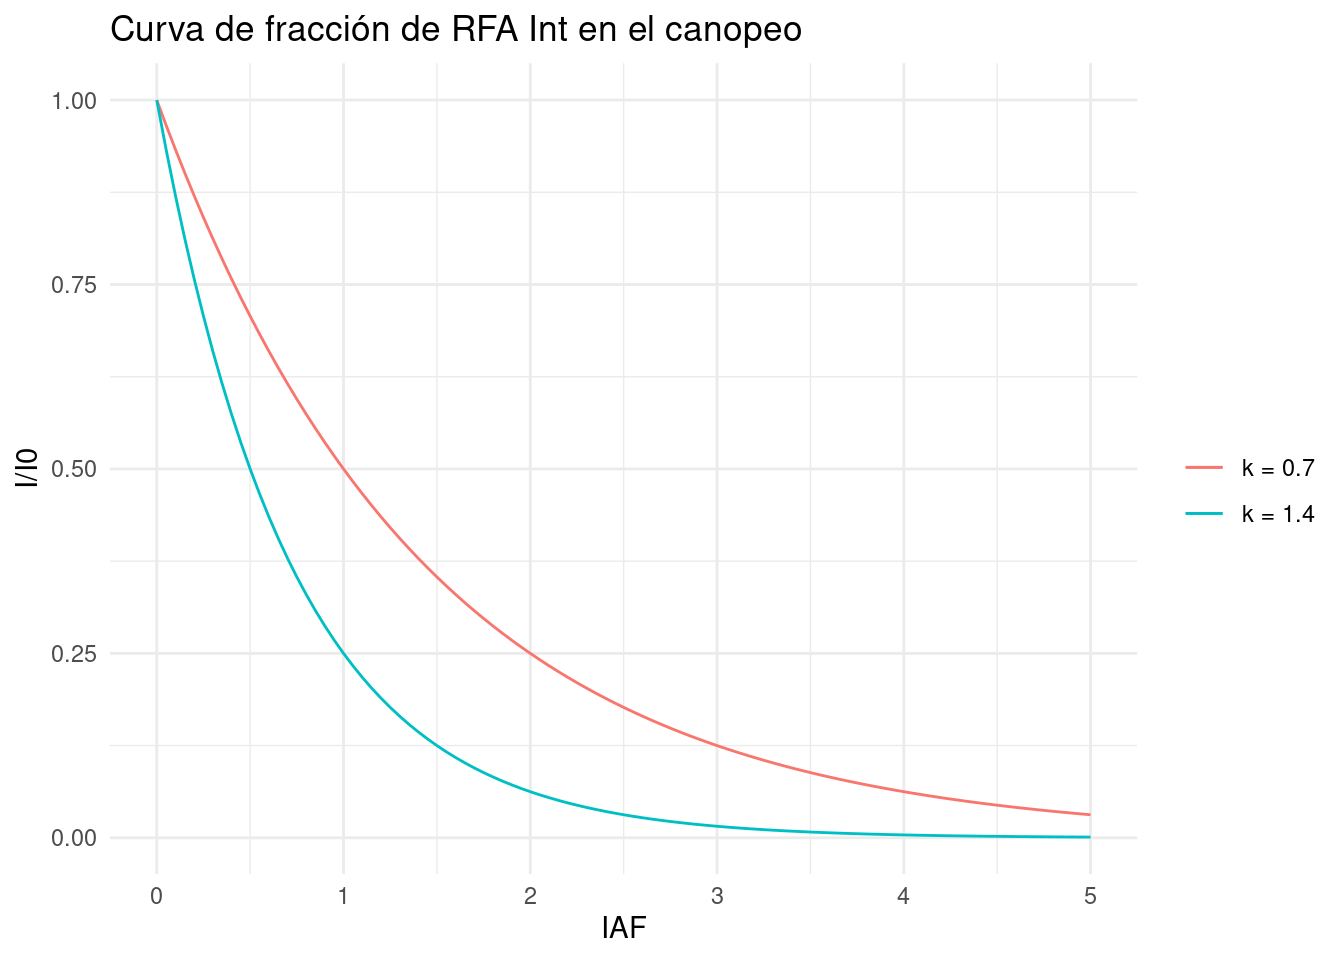
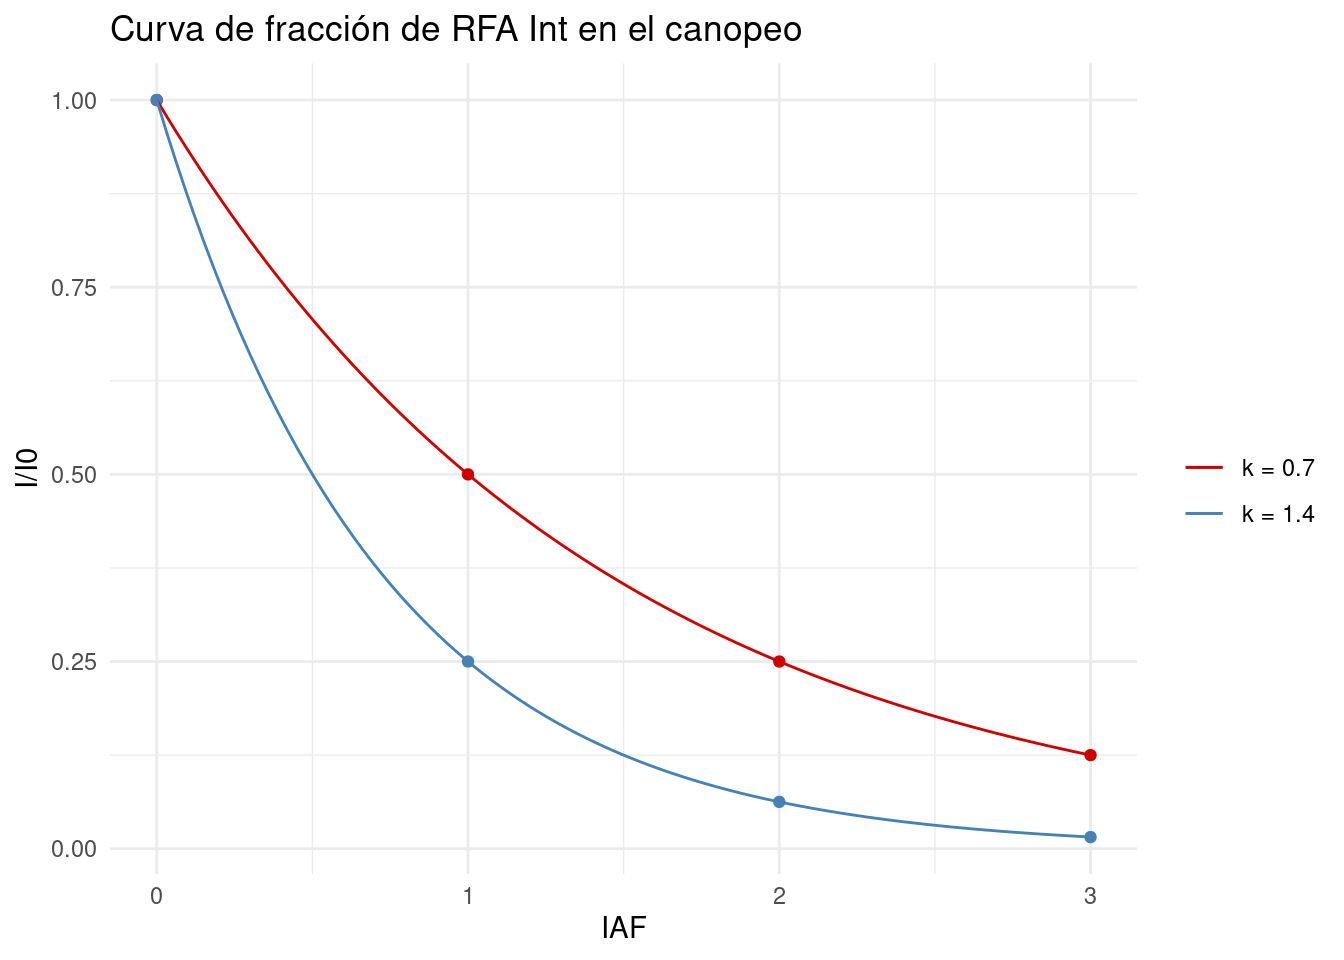
L

diff --git a/docs/02_crecimiento.html b/docs/02_crecimiento.html
@@ -289,7 +289,7 @@ $(document).ready(function () {
       <ul class="nav navbar-nav navbar-right">
         <li>
   <a href="https://juanchiem.github.io/blog/">
-    <span class="fa fa-github-square"></span>
+    <span class="fa fa-home"></span>
      
   </a>
 </li>
@@ -372,7 +372,7 @@ B
 </tbody>
 </table>
 <p>Donde:</p>
-<p>L: índice de área foliar acumulado (<span class="math inline">\(m^{2} m^{-2}\)</span>). Es decir, en L=1 la radiación atravesó 1m² de hojas/m² de suelo, y así sucesivamente. L sería un “Delta AF”, o sea si usamos la planta entera L=4, 4 m² de AF fueron atravesados (3.</p>
+<p>L: índice de área foliar acumulado (<span class="math inline">\(m^{2} m^{-2}\)</span>). Es decir, en L=2 la radiación atravesó 1m² de hojas/m² de suelo, ya que se mide al tope del estrato, entonces <span class="math inline">\(L_2 - L_1 = 1 m²\)</span>. L sería un “Delta AF”, o sea si usamos la planta entera L = 1 y 4, 3 m² de AF serían atravesados.</p>
 <p>I: radiación (μmol <span class="math inline">\(m^{-2} seg^{-1}\)</span>) incidente sobre el tope de cada estrato foliar (L)</p>
 <div class="infobox">
 <p>La fracción de RFA inerceptada (<span class="math inline">\(fRFA\)</span>) y el índice de área foliar (<span class="math inline">\(IAF\)</span>) fueron relacionados según Monsi y Saeki <span class="citation">(<a href="#ref-monsi1953light" role="doc-biblioref">1953</a>)</span> en una función no lineal dada por:</p>
@@ -404,15 +404,29 @@ k_A2</code></pre>
 k_B1</code></pre>
 <pre><code>## [1] 1.386294</code></pre>
 <p>Ahora que hemos estimado <code>k</code> podremos visualizar ambos canopeos por reemplazo de la ecuación</p>
+<ul>
+<li>Para los fines prácticos de la visualización de la fracción interceptada generaremos una nueva columna altura de medición de radiación (L0)</li>
+</ul>
 <pre class="r"><code>fraccion_interceptada_A &lt;- function(x) exp(- k_A1*x)
 fraccion_interceptada_B &lt;- function(x) exp(- k_B1*x)
 
-ggplot(data.frame(x = c(0, 5)), aes(x)) + 
-  stat_function(fun = fraccion_interceptada_A, aes(colour = paste0(&quot;k = &quot;, round(k_A1,1))))+ 
+p_k &lt;- 
+  dat %&gt;%
+  mutate(L0 = lag(L, default = 0),  
+         A_frac = A/max(A),
+         B_frac = B/max(B))%&gt;% 
+  ggplot(aes(x = L0)) +
+geom_point(aes(y = A_frac), col = &quot;red3&quot;)+
+geom_point(aes(y = B_frac), col = &quot;steelblue&quot;)+
+  stat_function(fun = fraccion_interceptada_A, 
+                aes(colour = paste0(&quot;k = &quot;, round(k_A1,1))))+ 
   stat_function(fun = fraccion_interceptada_B, aes(colour = paste0(&quot;k = &quot;, round(k_B1,1))))+ 
   labs(x=&quot;IAF&quot;, y = &quot;I/I0&quot;,
        title = &quot;Curva de fracción de RFA Int en el canopeo&quot;,  
-       col = &quot;&quot;) </code></pre>
+       col = &quot;&quot;)+
+  scale_colour_manual(&quot;&quot;, values = c(&quot;red3&quot;, &quot;steelblue&quot;))
+
+p_k </code></pre>
 <p><img src="02_crecimiento_files/figure-html/unnamed-chunk-4-1.png" width="672" /></p>
 <p>Ejemplo de k bajos es el maíz (canopias erectófilas dejan pasar más luz. k= 0.3 aprox), mientras que canopias planófilas, como el girasol, presentan coeficientes más altos (ej. k= 1,5).</p>
 <hr />
@@ -441,7 +455,7 @@ p1 &lt;- ggplot(data.frame(x = c(0, 120)), aes(x)) +
     breaks = scales::extended_breaks(Q = c(30, 10)))  
 
 p1</code></pre>
-<p><img src="02_crecimiento_files/figure-html/unnamed-chunk-5-1.png" width="672" /></p>
+<p><img src="02_crecimiento_files/figure-html/unnamed-chunk-6-1.png" width="672" /></p>
 <p>Para responder a la actividad propuesta, de obtener las tasas de crecimiento instantáneas, derivaremos <span class="math inline">\(f1\)</span>:</p>
 <pre class="r"><code># para  hacer operaciones de cálculo en R usamos la función `expression`
 f1_expre = expression(8000 / (1 + exp((70 - x) * 0.1)))
@@ -463,7 +477,7 @@ p2 &lt;- ggplot(data.frame(x = c(0, 120)), aes(x)) +
     limits = c(0, 120), 
     breaks = scales::extended_breaks(Q = c(30, 10)))#+
 p2</code></pre>
-<p><img src="02_crecimiento_files/figure-html/unnamed-chunk-6-1.png" width="672" /></p>
+<p><img src="02_crecimiento_files/figure-html/unnamed-chunk-7-1.png" width="672" /></p>
 <pre class="r"><code>f3_express &lt;- D(D(f1_expre,&#39;x&#39;),&#39;x&#39;)# derivada 2° de f1
 
 f1_deriv2 &lt;- function(x) -(8000 * (exp((70 - x) * 0.1) * 0.1 * 0.1)/(1 + exp((70 - x) * 
@@ -481,7 +495,7 @@ p3 &lt;- ggplot(data.frame(x = c(0, 120)), aes(x)) +
     limits = c(0, 120), 
     breaks = scales::extended_breaks(Q = c(30, 10))) 
 p3</code></pre>
-<p><img src="02_crecimiento_files/figure-html/unnamed-chunk-7-1.png" width="672" /></p>
+<p><img src="02_crecimiento_files/figure-html/unnamed-chunk-8-1.png" width="672" /></p>
 <p>Respondiendo al inciso b) Cómo podríamos determinar la biomasa que se acumuló entre dos momentos del ciclo usando la función de tasa de acumulación instantánea.</p>
 <pre class="r"><code>df = data.frame(x = seq(1, 120, length.out = 120))
 df$y = f1_deriv(df$x)
@@ -510,7 +524,7 @@ ggplot(df, aes(x, y)) +
             fill = &quot;steelblue&quot;, alpha = 0.5)+
   annotate(&quot;text&quot;, x = 105, y = -Inf, vjust = -2,
            label = round(int_90_120$value,0))</code></pre>
-<p><img src="02_crecimiento_files/figure-html/unnamed-chunk-9-1.png" width="672" /></p>
+<p><img src="02_crecimiento_files/figure-html/unnamed-chunk-10-1.png" width="672" /></p>
 <pre class="r"><code># ggsave(last_plot(), file = &quot;figs/integral.png&quot;, w =5, h = 4)</code></pre>
 <ol start="6" style="list-style-type: decimal">
 <li>La producción de biomasa de soja es marcadamente inferior a la de maíz. De acuerdo a Andrade y col <span class="citation">(<a href="#ref-andrade1995analysis" role="doc-biblioref">1995</a>)</span>: ¿cuánto de esta menor producción es explicado por radiación interceptada, por eficiencia fotosintética del canopeo y por contenido energético del producto?</li>
